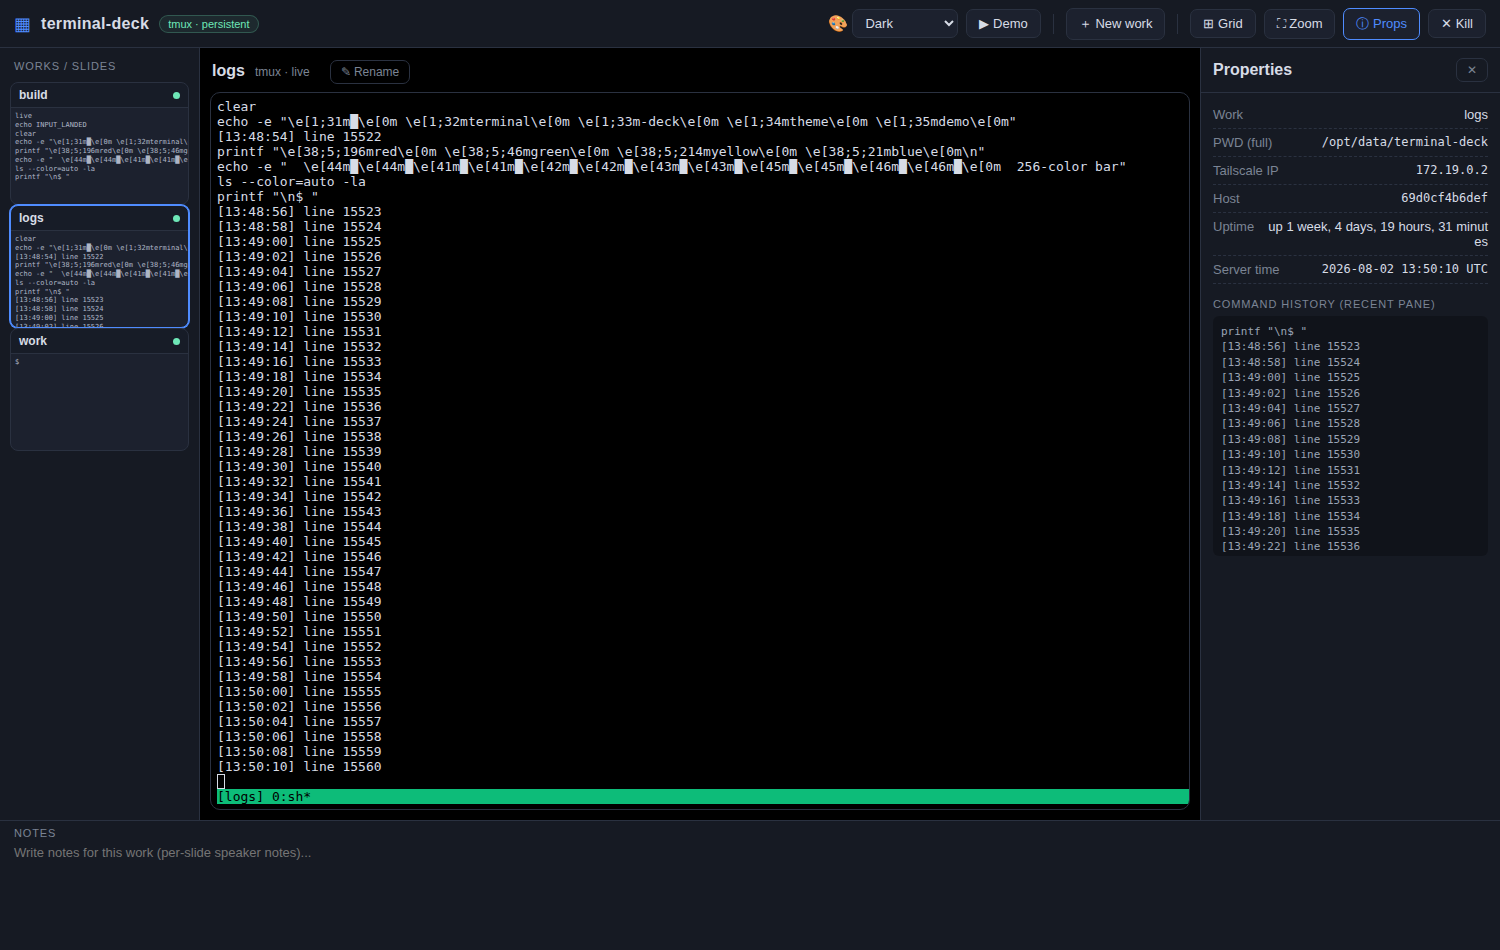
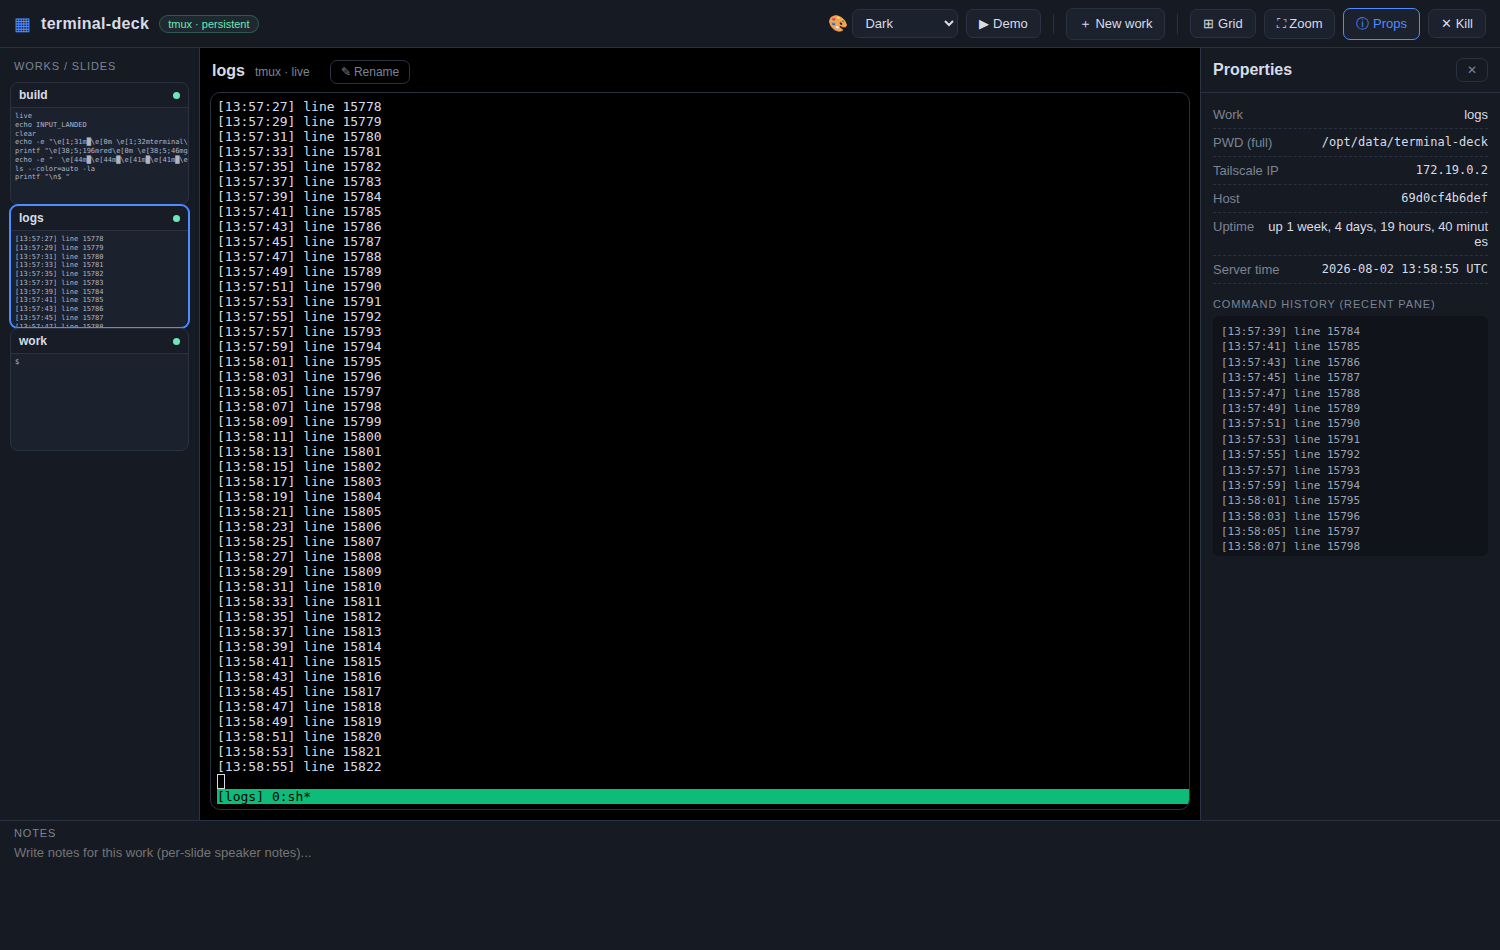
fix(ui): anchor main terminal top->bottom: history from top, input/prompt at bottom
Resizes the tmux pane to the real fitted viewport (emit t:resize with fitted
cols/rows) and scrolls to bottom after attach, so output no longer clumps at
the viewport bottom; history flows down from the top with the prompt sitting
on the last row. Verified: content spans near-top to bottom, bottom row is the
tmux prompt/status line.

diff --git a/public/app.js b/public/app.js
@@ -113,9 +113,21 @@ function ensureTerm() {
   term.loadAddon(fit);
   term.open($termEl);
   term.onData((d) => sendInput(d));
-  requestAnimationFrame(() => fit.fit());
+  requestAnimationFrame(() => { fit.fit(); resizeMain(); });
 }
-window.addEventListener('resize', () => { if (fit) fit.fit(); });
+function resizeMain() {
+  // Keep the tmux pane in sync with the actual visible viewport so the prompt
+  // sits at the bottom of the screen and history flows down from the top.
+  if (!fit || !term) return;
+  try { fit.fit(); } catch {}
+  const cols = Math.max(20, term.cols || 80);
+  const rows = Math.max(5, term.rows || 24);
+  if (state.active && state.tokens[state.active]) {
+    send({ t: 'resize', token: state.tokens[state.active], cols, rows });
+  }
+  if (term) term.scrollToBottom();
+}
+window.addEventListener('resize', () => resizeMain());
 // theme select
 $themeSelect.value = state.theme;
 $themeSelect.addEventListener('change', () => {
@@ -228,11 +240,18 @@ function attachMain(name) {
   const token = 'main:' + name;
   state.tokens[name] = token;
   ensureTerm();
-  // a touch of delay for the xterm to be open
+  // a touch of delay for the xterm to be open + fitted to the real viewport
   setTimeout(() => {
-    send({ t: 'main', token, session: name, cols: term.cols, rows: term.rows });
+    // fit to the actual panel size first, then attach the pty at that size
+    try { fit.fit(); } catch {}
+    const cols = Math.max(20, term.cols || 80);
+    const rows = Math.max(5, term.rows || 24);
+    send({ t: 'main', token, session: name, cols, rows });
+    // follow with an explicit resize so tmux's pane matches the viewport
+    send({ t: 'resize', token, cols, rows });
     if (term) term.clear();
-  }, 60);
+    if (term) term.scrollToBottom();
+  }, 80);
 }
 
 function sendInput(data) {
